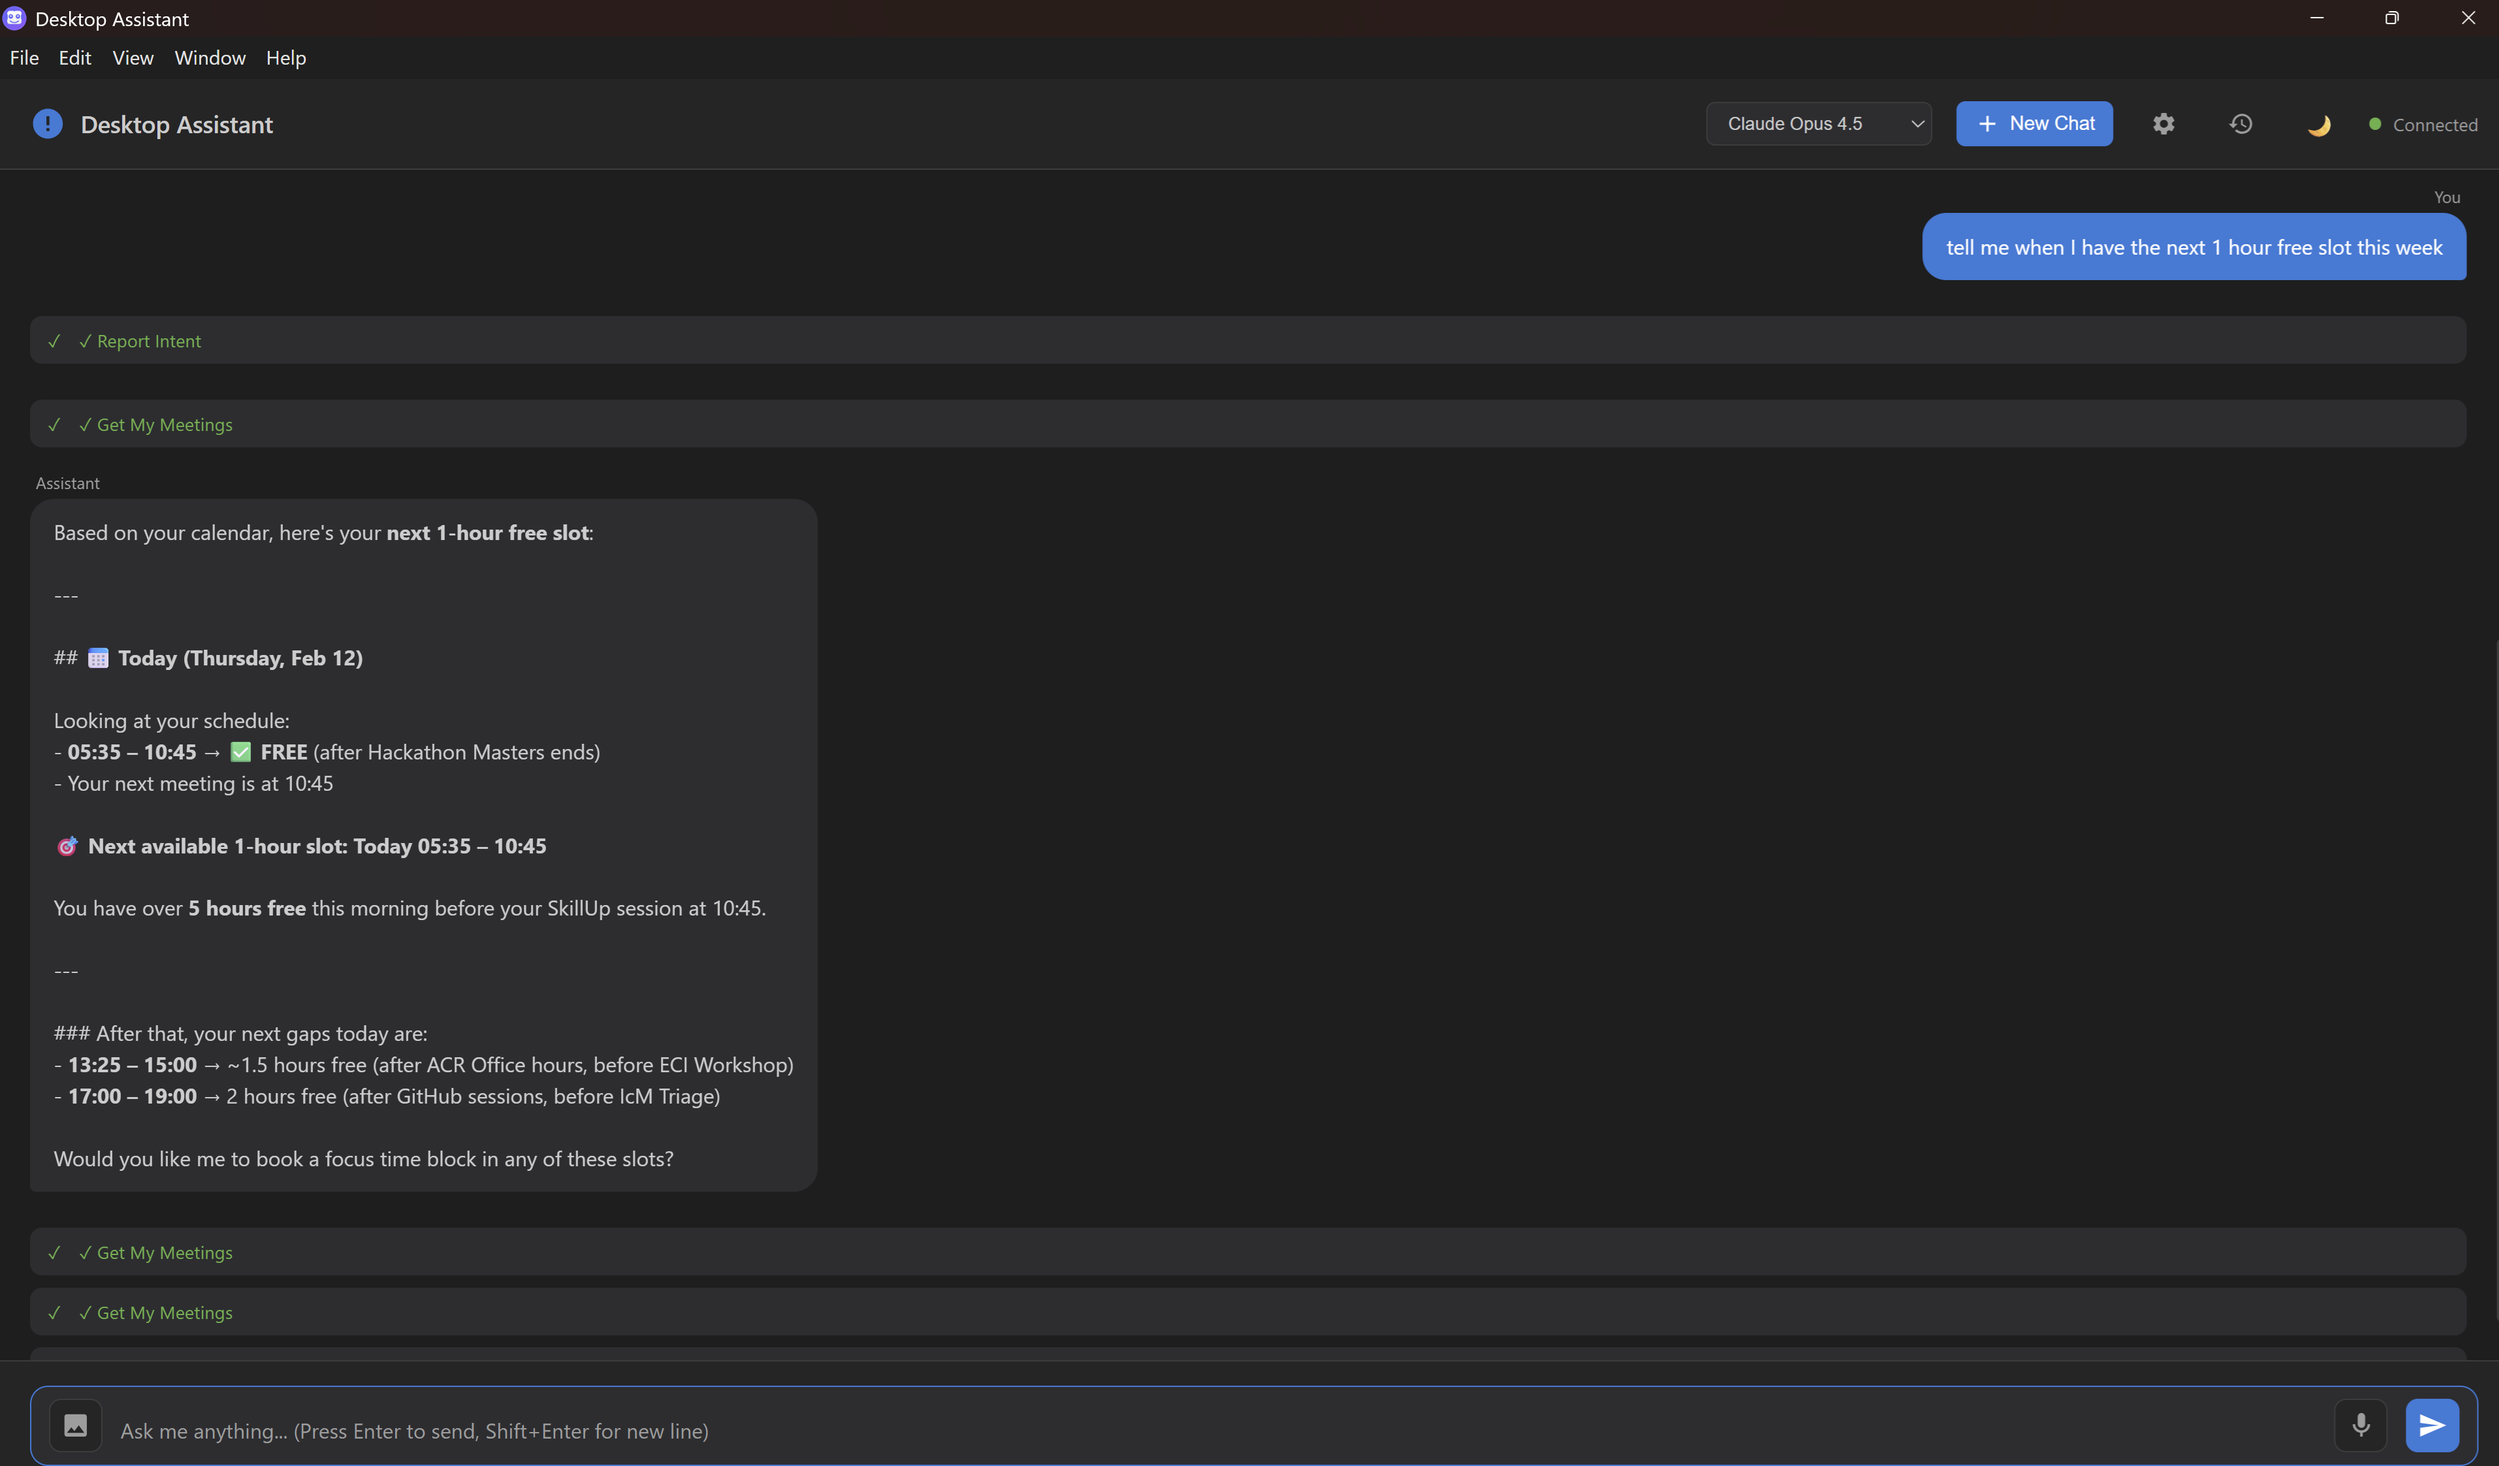
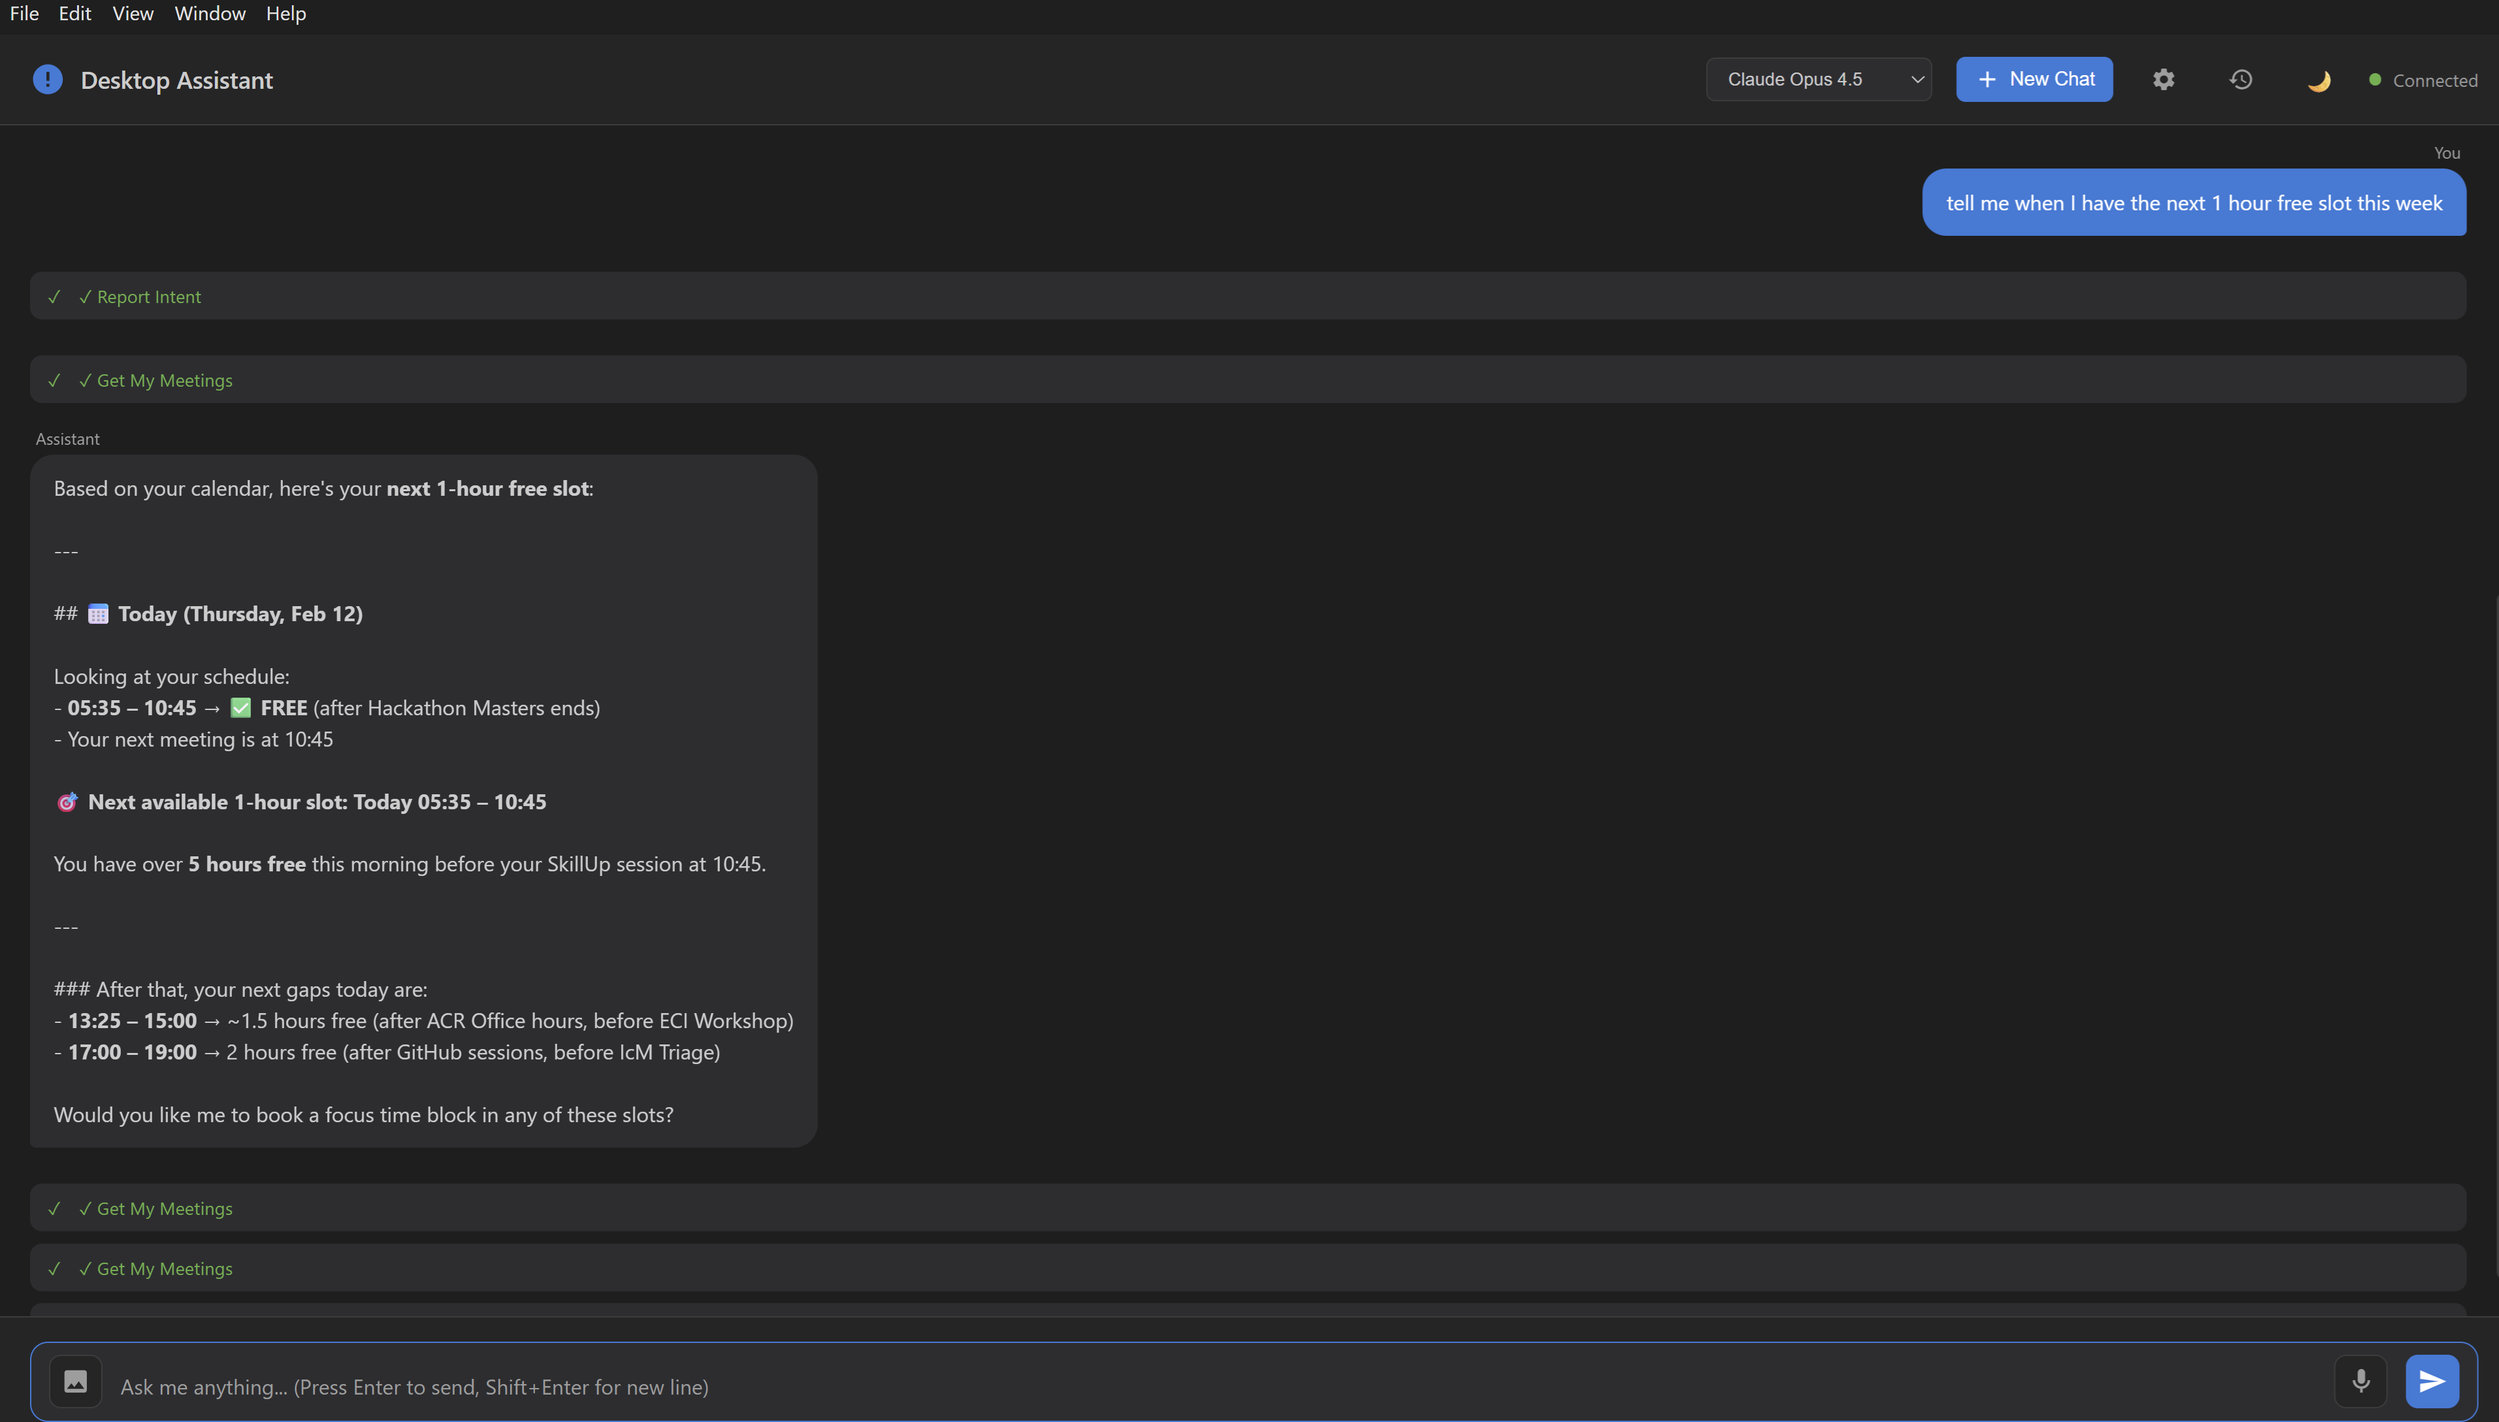
Add screenshots: Work IQ, multimodal, apps, Office, system, voice, brightness, dev tools

diff --git a/README.md b/README.md
@@ -19,38 +19,58 @@
 
 ---
 
-## 🎬 Demo
-
-<p align="center">
-  <img src="screenshots/desktop_assistant.gif" alt="Windows Cortex Demo" width="700" />
-</p>
-
----
-
 ## 📸 Screenshots
 
 <table>
   <tr>
-    <td><img src="screenshots/Desktop_Assistant_1.png" alt="Main Interface" width="350"/></td>
-    <td><img src="screenshots/Desktop_Assistant_2.png" alt="AI Response" width="350"/></td>
+    <td><img src="screenshots/windows-cortex.png" alt="Work IQ" width="350"/></td>
+    <td><img src="screenshots/free_slot.png" alt="Work IQ — Free Slot Finder" width="350"/></td>
   </tr>
   <tr>
-    <td align="center"><em>Chat Interface — Clean and intuitive</em></td>
-    <td align="center"><em>AI in Action — Smart tool execution</em></td>
+    <td align="center"><em>Work IQ — Create or cancel meetings. Control Teams status.</em></td>
+    <td align="center"><em>Work IQ — Find your next free slot with natural language</em></td>
   </tr>
   <tr>
-    <td><img src="screenshots/Desktop_Assistant_3.png" alt="Tools & Capabilities" width="350"/></td>
-    <td><img src="screenshots/captura1.png" alt="Screenshot feature" width="350"/></td>
+    <td colspan="2" align="center"><img src="screenshots/Win_cortex_gemini_3_pro_whitescreen.png" alt="Multimodal — Gemini 3 Pro" width="700"/></td>
   </tr>
   <tr>
-    <td align="center"><em>Multi-model Support — Pick your AI</em></td>
-    <td align="center"><em>Screenshot Analysis with Vision</em></td>
+    <td colspan="2" align="center"><em>Dark and light mode</em></td>
   </tr>
   <tr>
-    <td colspan="2" align="center"><img src="screenshots/free_slot.png" alt="Work IQ — Free Slot Finder" width="700"/></td>
+    <td colspan="2" align="center"><img src="screenshots/open_apps.png" alt="Apps Management" width="700"/></td>
   </tr>
   <tr>
-    <td colspan="2" align="center"><em>Work IQ Integration — Find your next free slot with natural language</em></td>
+    <td colspan="2" align="center"><em>Apps Management — Launch, switch, maximize / minimize and control applications</em></td>
+  </tr>
+  <tr>
+    <td colspan="2" align="center"><img src="screenshots/Office_suite.png" alt="Office Suite" width="700"/></td>
+  </tr>
+  <tr>
+    <td colspan="2" align="center"><em>Office Suite — Create Word, Excel, and PowerPoint documents with natural language</em></td>
+  </tr>
+  <tr>
+    <td colspan="2" align="center"><img src="screenshots/System_process.png" alt="System Management" width="700"/></td>
+  </tr>
+  <tr>
+    <td colspan="2" align="center"><em>System Management — Monitor processes, resources, and system info</em></td>
+  </tr>
+  <tr>
+    <td colspan="2" align="center"><img src="screenshots/whisper.png" alt="Voice Accessibility" width="700"/></td>
+  </tr>
+  <tr>
+    <td colspan="2" align="center"><em>Accessibility — Hands-free control using voice input powered by Azure AI Whisper</em></td>
+  </tr>
+  <tr>
+    <td colspan="2" align="center"><img src="screenshots/brightness.png" alt="System Settings" width="700"/></td>
+  </tr>
+  <tr>
+    <td colspan="2" align="center"><em>System Settings — Control brightness, volume, and other system preferences</em></td>
+  </tr>
+  <tr>
+    <td colspan="2" align="center"><img src="screenshots/dev_tools.png" alt="Dev Tools & Model Selection" width="700"/></td>
+  </tr>
+  <tr>
+    <td colspan="2" align="center"><em>Dev Tools — Built-in developer tools for troubleshooting and 19+ AI models to choose from</em></td>
   </tr>
 </table>
 
